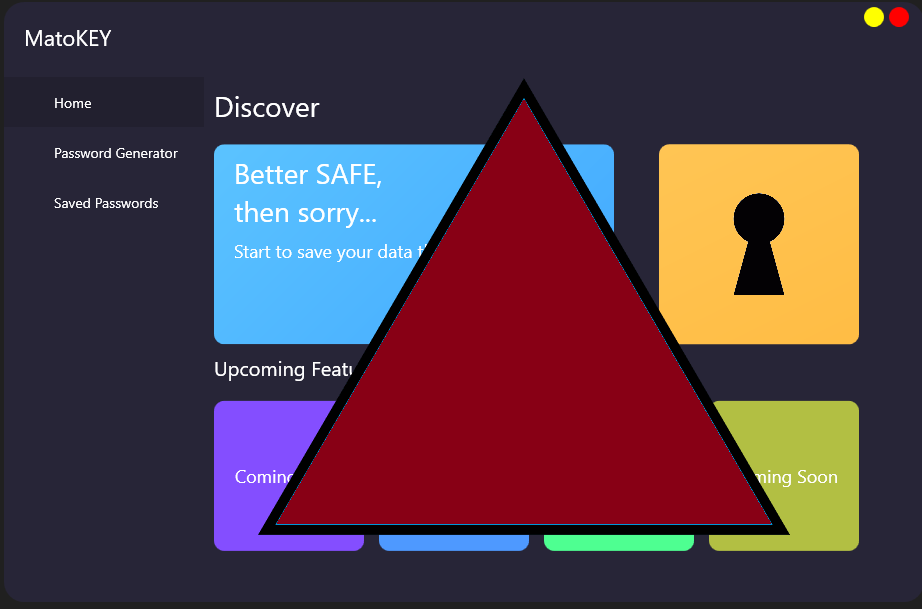
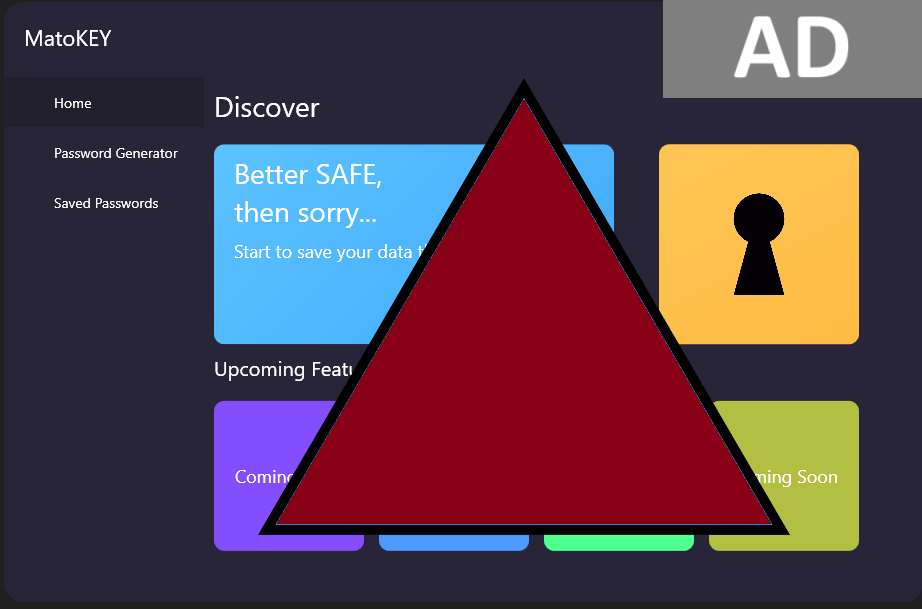
added an AD-Card

Changed region(s): [[0.6985, 0.0, 1.0, 0.1872]]

diff --git a/script.js b/script.js
@@ -18,28 +18,28 @@ var projectsAr = [
         tags:["Javascript","HTML","CSS","Jquery","API","Web-App"]
     },    
     {
-        name: "Password-Manager NR3",
-        match: "96% Match",
-        date: "2021",
-        descr: "Etwas Text damit sich die div ein bisschen mehr füllt und allesa ein bisschen mehr in die Mitte gerückt wird. Hahahahahah ist schon funny wie das hier läuft",
-        img: "/img/projectImg/exampleProject3.PNG",
-        tags:["C# ","WPF ","Encrypting ","Tag4 "]
-    },
-    {
-        name: "Password-Manager NR4",
-        match: "96% Match",
-        date: "2021",
-        descr: "Etwas Text damit sich die div ein bisschen mehr füllt und allesa ein bisschen mehr in die Mitte gerückt wird. Hahahahahah ist schon funny wie das hier läuft",
-        img: "/img/projectImg/exampleProject4.PNG",
-        tags:["C# ","WPF ","Encrypting ","Tag4 "]
-    },
-    {
-        name: "My first CV",
-        match: "81% Match",
-        date: "2021",
-        descr: "Etwas Text damit sich die div ein bisschen mehr füllt und allesa ein bisschen mehr in die Mitte gerückt wird. Hahahahahah ist schon funny wie das hier läuft",
+        name: "AD: Tired of just LOOKING at projects?",
+        match: "101% Match",
+        date: "for your company",
+        descr: "Contact me and WORK on a project together! If you are interested in more, click on the profile-picture in the top right corner.",
         img: "/img/projectImg/exampleProject5.PNG",
-        tags:["C# ","WPF ","Encrypting ","Tag4 "]
+        tags:["Open for work","Web-Development","Software-Engineering"]
+    },
+    {
+        name: "Blobby Feeder",
+        match: "81% Match",
+        date: "2023",
+        descr: "In this little Minigame was made in Unity. It is a simple labyrinth game, like the good old flash games back in the days. You try to navigate your little Blobby to his food, but beware of the danger that is waiting on you on the way",
+        img: "/img/projectImg/exampleProject3.PNG",
+        tags:["Unity","Game Engine","C#", "GameDev"]
+    },
+    {
+        name: "Landing Page: TinDog",
+        match: "89% Match",
+        date: "2021",
+        descr: "Trying to connect people with lovely dogs, TinDog ist the Number one Pet Shipment in the World. Note: This is a mockup landing page",
+        img: "/img/projectImg/exampleProject4.PNG",
+        tags:["HTML","CSS","Javascript","Jquery","WebDev"]
     },
     {
         name: "Password-Manager NR4",

diff --git a/style.css b/style.css
@@ -131,10 +131,11 @@ body {
 
 #highlightInfo{
     margin: 1.5vh 0 3vh 0;
+    width: 100%;
 }
 
 #highlightImgCard{
-
+    text-align: right;
     width: 50%;
 }
 
